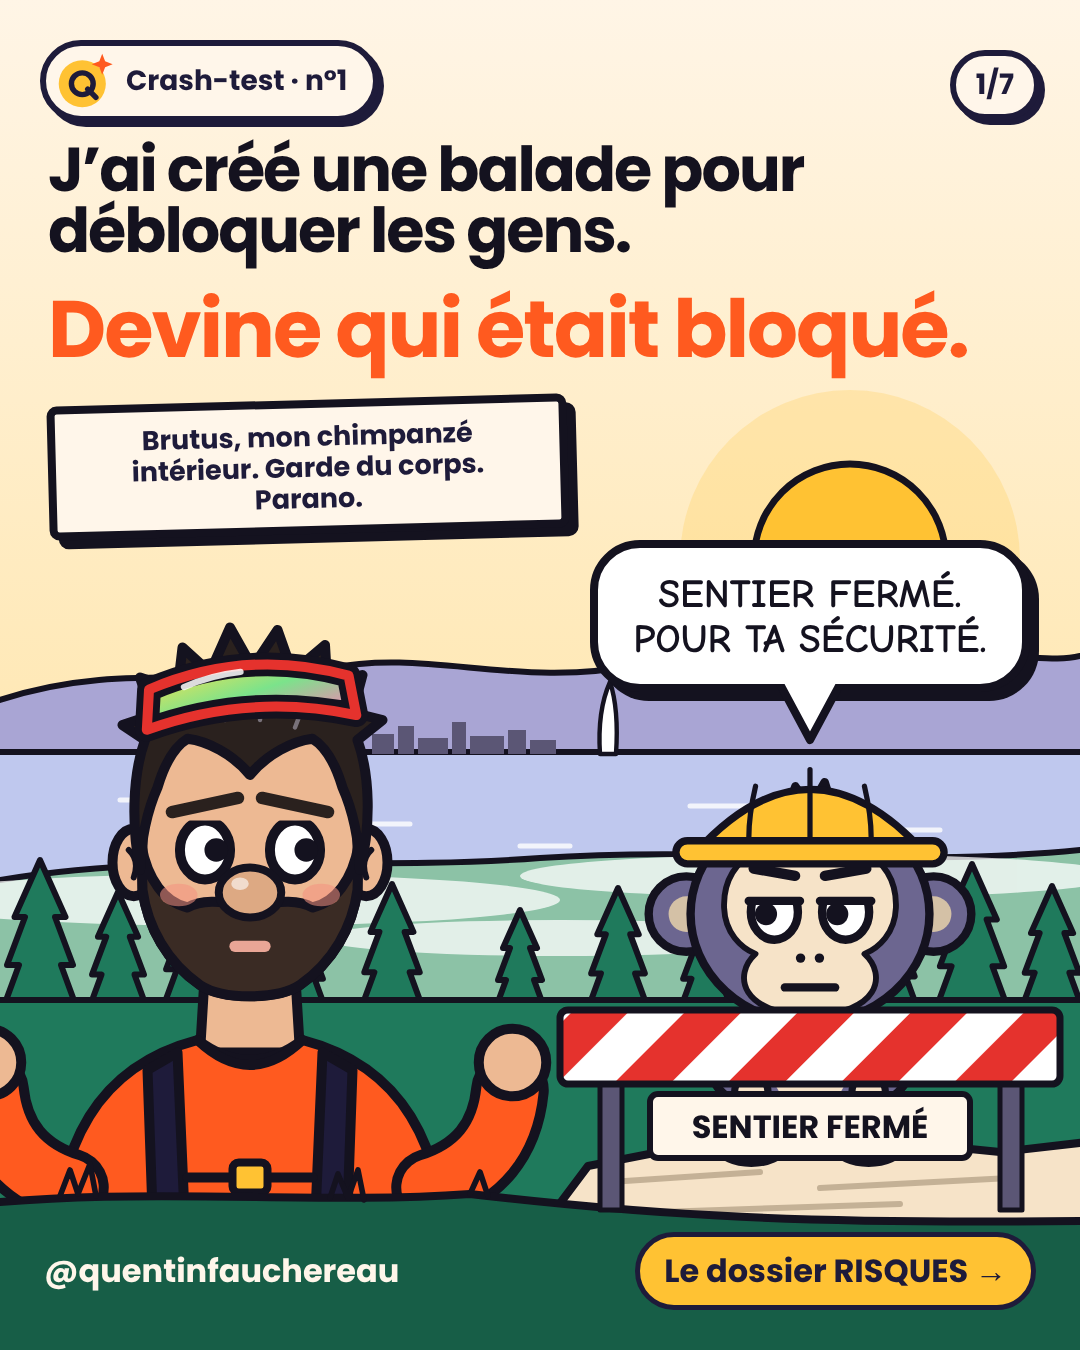
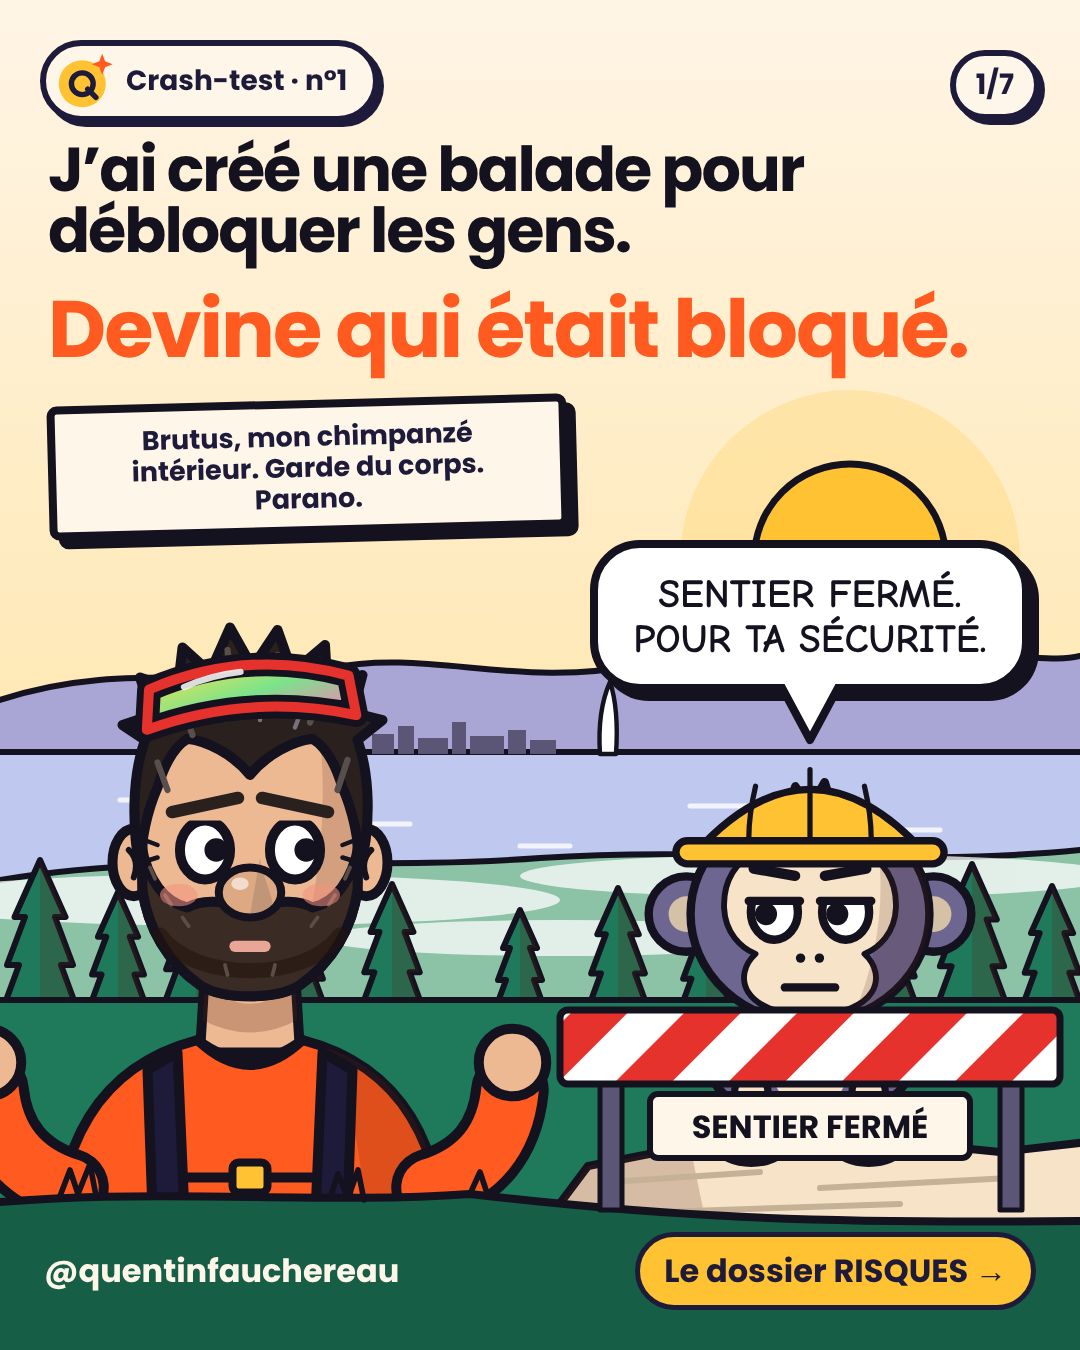
Enrichit le style pop : ombrages, textures, cases de BD
Ombres portées sur le visage et les vêtements, texture de barbe et de
cheveux, pattes d'oie, et découpage en cases avec cadrage. La planche 4
du Crash-test n°1 passe en deux cases avec un salon détaillé.

Claude-Session: https://claude.ai/code/session_01Ur5KmPTCazZvb9fFnorLVu

diff --git a/episodes/31-crash-balade-fantome.js b/episodes/31-crash-balade-fantome.js
@@ -1,6 +1,6 @@
 // Crash-test n°1 — « La balade fantôme ». Vraie histoire : Brutus a fait repousser le lancement des balades plus de six mois.
 // Style pop franco-belge. Scénario validé par Quentin le 15 novembre.
-const { C, useStyle, quentin, chimp, saleve, ground, bubble, caption, link, slide, ono, popBg } = require('../src/kit.js');
+const { C, useStyle, quentin, chimp, saleve, ground, bubble, caption, link, slide, ono, popBg, cases } = require('../src/kit.js');
 useStyle('pop');
 
 const T = 7, nb = '&nbsp;', series = 'Crash-test · n°1';
@@ -76,6 +76,27 @@ const agenda = svg(`
     <text x="656" y="380" font-family="Poppins" font-weight="700" font-size="28" fill="${C.grisNuit}">→ après l’été</text>
     <text x="656" y="430" font-family="Poppins" font-weight="700" font-size="28" fill="${C.grisNuit}">→ quand ce sera clair</text>
   </g>`);
+const fenetre = svg(`
+  <defs><linearGradient id="ciel" x1="0" x2="0" y1="0" y2="1"><stop offset="0" stop-color="#BFE3FF"/><stop offset="1" stop-color="#FFE7B0"/></linearGradient>
+    <clipPath id="vitre"><rect x="400" y="560" width="240" height="230"/></clipPath></defs>
+  <rect x="400" y="560" width="240" height="230" fill="url(#ciel)"/>
+  <g clip-path="url(#vitre)">
+    <path d="M 400 720 L 470 640 L 520 690 L 580 620 L 640 700 L 640 790 L 400 790 Z" fill="${C.lointain}" ${P(4)}/>
+    <rect x="400" y="740" width="240" height="50" fill="${C.lac}"/><path d="M 560 740 c -2 -20 0 -34 4 -44 c 4 10 6 24 4 44 Z" fill="#fff" ${P(2)}/>
+  </g>
+  <rect x="400" y="560" width="240" height="230" fill="none" ${P(12)}/><path d="M 520 560 V 790 M 400 675 H 640" ${P(7)}/>
+  <path d="M 380 548 Q 400 680 384 806 L 352 806 Q 368 680 350 548 Z" fill="${C.soleil}" ${P(6)}/>
+  <path d="M 660 548 Q 640 680 656 806 L 688 806 Q 672 680 690 548 Z" fill="${C.soleil}" ${P(6)}/>`);
+const horloge = svg(`
+  <circle cx="770" cy="640" r="54" fill="#fff" ${P(8)}/>
+  <path d="M 770 640 V 604 M 770 640 L 796 652" ${P(7)}/><circle cx="770" cy="640" r="6" fill="#14121F"/>
+  <path d="M 832 612 q 14 -8 22 4 M 838 640 q 16 -2 20 12" fill="none" ${P(4)}/>`);
+const lampe = svg(`
+  <circle cx="1000" cy="610" r="120" fill="${C.soleil}" opacity=".25"/>
+  <path d="M 1000 650 V 1100" ${P(10)}/><path d="M 1000 650 V 1100" stroke="#C9A36A" stroke-width="4"/>
+  <path d="M 936 560 L 1064 560 L 1090 660 L 910 660 Z" fill="${C.soleil}" ${P(7)}/>`);
+const salon = (perso) => `${mur}${fenetre}${horloge}${lampe}${dossier}${perso}${assise}`;
+
 const plaid = (top = 980) => svg(`
   <defs><pattern id="tartan" width="60" height="60" patternUnits="userSpaceOnUse"><rect width="60" height="60" fill="#D9473A"/><rect x="22" width="16" height="60" fill="#14121F" opacity=".22"/><rect y="22" width="60" height="16" fill="#14121F" opacity=".22"/><rect x="28" width="4" height="60" fill="#FFC233" opacity=".7"/><rect y="28" width="60" height="4" fill="#FFC233" opacity=".7"/></pattern></defs>
   <path d="M 630 ${top + 20} Q 812 ${top - 30} 1000 ${top + 20} L 1030 1200 L 600 1200 Z" fill="url(#tartan)" ${P(7)}/>`);
@@ -157,17 +178,21 @@ module.exports = {
       ${carte}
       ${ono('WIIIOU&nbsp;!', { x: 380, y: 690, size: 76, rot: -10, fill: '#E5322D' })}` }),
 
-    // 4 — Le fond du trou (le canapé)
+    // 4 — Le fond du trou, en deux cases : gros plan sur l'agenda, puis plan large du salon.
     slide({ n: 4, total: T, series, cta: 'BZZZ →', content: `
-      ${mur}${agenda}
-      ${caption({ x: 48, y: 150, w: 520, size: 32, bg: C.soleil, rot: -2, text: `Résultat${nb}: j'ai repoussé. Plus de six mois.` })}
-      ${dossier}
-      ${quentin({ x: -40, y: 650, w: 600, outfit: 'chemise', eyes: { px: 0, py: 2, lid: 0.45 }, brows: [0, 0], mouth: 'flat' })}
-      ${chimp({ x: 610, y: 760, w: 400, eyes: { px: -4, py: 0, lid: 0.4 }, brows: [-6, 6], mouth: 'smile', arms: 'calm' })}
-      ${plaid(980)}${chips(860, 930)}
-      ${assise}
-      ${bubble({ x: 590, y: 540, w: 420, size: 44, tail: { at: 0.55, dir: 0 }, text: `On est bien, là.` })}
-      ${bubble({ x: 60, y: 520, w: 190, size: 52, tail: { at: 0.6, dir: 1 }, text: `…` })}` }),
+      ${popBg(C.creme)}
+      <div class="abs" style="left:0;right:0;top:1250px;bottom:0;background:${C.nuit}"></div>
+      ${cases([
+        { x: 40, y: 130, w: 1000, h: 420, scene: mur + agenda, cx: 210, cy: 110, k: 1.15 },
+        { x: 40, y: 590, w: 1000, h: 630, cx: 0, cy: 540, k: 0.926, scene: salon(`
+          ${quentin({ x: -40, y: 650, w: 600, outfit: 'chemise', eyes: { px: 0, py: 2, lid: 0.45 }, brows: [0, 0], mouth: 'flat' })}
+          ${chimp({ x: 610, y: 760, w: 400, eyes: { px: -4, py: 0, lid: 0.4 }, brows: [-6, 6], mouth: 'smile', arms: 'calm' })}
+          ${plaid(980)}${chips(860, 930)}
+          ${svg(chip(560, 1120, 20) + chip(620, 1140, -30) + chip(470, 1150, 10))}`) },
+      ])}
+      ${caption({ x: 70, y: 170, w: 400, size: 34, bg: C.soleil, rot: -2, text: `Résultat${nb}: j'ai repoussé. Plus de six mois.` })}
+      ${bubble({ x: 610, y: 610, w: 400, size: 44, tail: { at: 0.55, dir: 0 }, text: `On est bien, là.` })}
+      ${bubble({ x: 80, y: 600, w: 170, size: 52, tail: { at: 0.6, dir: 1 }, text: `…` })}` }),
 
     // 5 — La bascule : le message
     slide({ n: 5, total: T, series, cta: 'Ce qui se passe dans le corps →', content: `

diff --git a/src/kit.js b/src/kit.js
@@ -16,7 +16,7 @@ const STYLES = {
   cartoon: { key: 'cartoon', name: 'Cartoon rond', lw: 7, eye: 'big', ink: C.nuit },
   claire: { key: 'claire', name: 'Ligne claire', lw: 4, eye: 'dot', ink: C.nuit },
   roman: { key: 'roman', name: 'Roman graphique', lw: 5, eye: 'almond', ink: C.nuit, shadow: true },
-  pop: { key: 'pop', name: 'Pop franco-belge', lw: 8, eye: 'big', ink: '#14121F', pop: true, eyeScale: 1.18 },
+  pop: { key: 'pop', name: 'Pop franco-belge', lw: 8, eye: 'big', ink: '#14121F', pop: true, eyeScale: 1.18, shadow: true, shade: '#5A2416' },
   carnet: { key: 'carnet', name: 'Carnet de rando', lw: 4.5, eye: 'almond', ink: '#2E2A52', sketch: true },
 };
 let ST = STYLES.cartoon;
@@ -24,7 +24,7 @@ const useStyle = (k) => { ST = STYLES[k] || STYLES.cartoon; return ST; };
 
 let uid = 0;
 const S = (k = 1) => `stroke="${ST.ink}" stroke-width="${+(ST.lw * k).toFixed(1)}" stroke-linecap="round" stroke-linejoin="round"`;
-const SH = (d, o = 0.17) => (ST.shadow ? `<path d="${d}" fill="${C.nuit}" opacity="${o}"/>` : '');
+const SH = (d, o = 0.17) => (ST.shadow ? `<path d="${d}" fill="${ST.shade || C.nuit}" opacity="${o}"/>` : '');
 
 function shade(hex, amt) {
   const n = parseInt(hex.slice(1), 16);
@@ -154,7 +154,10 @@ function quentin({ x = 0, y = 0, w = 520, flip = false, eyes = {}, brows = [0, 0
     <path d="${HEAD}" fill="${A.skin}" ${S()}/>
     <g clip-path="url(#${hc})">${SH('M 292 80 C 304 150, 300 230, 268 326 L 340 326 L 340 80 Z')}</g>
     <path d="${BEARD}" fill="${A.beard}" ${S()}/>
+    ${ST.pop ? `<path d="M 168 268 C 196 306, 284 306, 312 268" fill="none" stroke="${shade(A.beard, -24)}" stroke-width="12" stroke-linecap="round" opacity=".55"/>
+      <path d="M 160 214 l 4 9 M 172 236 l 5 8 M 186 254 l 5 7 M 320 214 l -4 9 M 308 236 l -5 8 M 294 254 l -5 7 M 220 292 l 2 8 M 260 292 l -2 8" stroke="${shade(A.beard, 34)}" stroke-width="3" stroke-linecap="round"/>` : ''}
     <path d="${HAIR}" fill="${A.hair}" ${S()}/>
+    ${ST.pop ? `<path d="M 182 74 l 12 34 M 222 40 l 6 44 M 262 44 l -4 40 M 300 64 l -12 34 M 166 130 l 8 22 M 318 128 l -8 24" stroke="${shade(A.hair, 46)}" stroke-width="5" stroke-linecap="round"/>` : ''}
     <path d="M 214 66 l 6 30 M 250 62 l -2 34 M 286 76 l -10 26" fill="none" stroke="#8C8690" stroke-width="3.5" stroke-linecap="round" opacity=".8"/>
     ${A.shades ? `<g transform="rotate(-4 240 80)">
       <path d="${VISOR}" fill="url(#${lg})" stroke="${ST.ink}" stroke-width="${ST.lw * 2 + 3}" stroke-linejoin="round"/>
@@ -162,7 +165,8 @@ function quentin({ x = 0, y = 0, w = 520, flip = false, eyes = {}, brows = [0, 0
       <path d="M 188 66 q 22 -8 46 -9" fill="none" stroke="#fff" stroke-width="5" stroke-linecap="round" opacity=".85"/></g>` : ''}
     ${eye(204, 200, el, -1)}${eye(276, 200, er, 1)}
     ${brow(204, brows[0])}${brow(276, brows[1])}
-    ${ST.pop ? `<ellipse cx="183" cy="236" rx="15" ry="9" fill="#F4917F" opacity=".55"/><ellipse cx="297" cy="236" rx="15" ry="9" fill="#F4917F" opacity=".55"/>
+    ${ST.pop ? `<path d="M 166 196 l -13 -5 M 166 206 l -13 4 M 314 196 l 13 -5 M 314 206 l 13 4" fill="none" ${S(0.45)}/>
+      <ellipse cx="183" cy="236" rx="15" ry="9" fill="#F4917F" opacity=".55"/><ellipse cx="297" cy="236" rx="15" ry="9" fill="#F4917F" opacity=".55"/>
       <ellipse cx="240" cy="234" rx="25" ry="20" fill="${shade(A.skin, -16)}" ${S(0.8)}/><ellipse cx="232" cy="227" rx="7" ry="5" fill="#fff" opacity=".6"/>` :
     `<path d="M 231 222 C 228 232, 222 237, 222 243 Q 224 253 240 252 Q 256 253 258 243" fill="none" ${S(0.85)}/>`}
     ${ST.shadow ? `<path d="M 240 252 Q 256 253 258 242 C 256 232, 250 220, 248 206 Z" fill="${C.nuit}" opacity=".14"/>` : ''}
@@ -395,6 +399,13 @@ function popBg(color, { rays = false, cx = 540, cy = 700 } = {}) {
     <div class="abs" style="inset:0;background-image:radial-gradient(rgba(20,18,31,.13) 2.6px,transparent 3.2px);background-size:18px 18px"></div>`;
 }
 
+function cases(list, ink = '#14121F') {
+  return list.map(({ x, y, w, h, scene, cx = 0, cy = 0, k = 1 }) => `
+    <div class="abs" style="left:${x}px;top:${y}px;width:${w}px;height:${h}px;overflow:hidden;border:8px solid ${ink};border-radius:8px;box-shadow:9px 9px 0 ${ink};background:#fff">
+      <div class="abs" style="left:0;top:0;width:1080px;height:1350px;transform-origin:0 0;transform:scale(${k}) translate(${-cx}px, ${-cy}px)">${scene}</div>
+    </div>`).join('');
+}
+
 const sources = ({ x, y, w, items }) => `<div class="sources" style="left:${x}px;top:${y}px;width:${w}px"><b>Sources</b><br>${items.join('<br>')}</div>`;
 
-module.exports = { ono, popBg, guichet, sources, C, STYLES, useStyle, FLOOR_Y, quentin, chimp, saleve, ground, bubble, caption, burst, link, logo, slide, CSS, shade };
+module.exports = { cases, ono, popBg, guichet, sources, C, STYLES, useStyle, FLOOR_Y, quentin, chimp, saleve, ground, bubble, caption, burst, link, logo, slide, CSS, shade };
